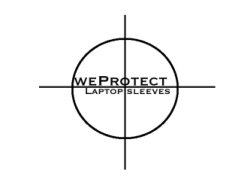
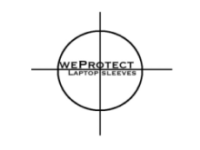
picture size changes + header style change

diff --git a/index.php b/index.php
@@ -18,8 +18,8 @@
         <style>
         
         @font-face {
-    font-family: "Nougat";
-    src: url(Nougat-ExtraBlack.ttf);
+    font-family: "Serifa"; font-weight: bold;
+    src: url("Serifa.ttf");
 }
         
         header{
@@ -27,7 +27,7 @@
             padding:0;
             margin: 0;
             
-            background: #fff;
+            background: #9B8F57;
             box-shadow: 0px 3px 5px rgba(0,0,0,0.3);
         }
         
@@ -69,25 +69,27 @@
             text-align: center;
             font-size: 60px;
             padding: 10px 0 20px 0;
-            color: #40BEC4;
-font-family: 'Nougat';
+            color: #fff;
+font-family: "Serifa";
 
             margin: 0;
-            text-shadow: -1px -1px 0px #2D4A80, -2px -2px 0px #2D4A80, 1px 1px 0px #ccc;
-            font-weight: 400;
+            text-shadow: 0px -1px 0px #333, 0px -2px 0px #333, 1px -3px 0px #333, 1px -4px 0px #333, 2px -5px 0px #333,
+                         2px -6px 0px #333, 3px -7px 0px #333, 3px -8px 0px #333, 4px -9px 0px #333, 4px -10px 0px #333;
+            font-weight: bold;
             }
         
             body{
                 background: #ddd url('img/bg.png');
                 margin: 0;
                 padding: 0;
+                font-size: 14px;
             }
             
             .container{
                 overflow-y: auto;
                 margin: 0 auto;
                 padding: 10px;
-                margin-top: 75px;
+                margin-top: 20px;
             }
             
             li{
@@ -96,8 +98,8 @@ font-family: 'Nougat';
                padding: 15px;
                border: 1px solid #ccc;
                margin: 5px;
-               width: 250px;
-               height: 250px;
+               width: 200px;
+               height: 200px;
                background: #fff;
                
                
@@ -112,8 +114,8 @@ font-family: 'Nougat';
             }
             
             .image-aligner{
-                width: 250px;
-                height: 250px;
+                width: 200px;
+                height: 200px;
                 display:table-cell;
                 vertical-align:middle;
                 background: #fff;
@@ -122,9 +124,9 @@ font-family: 'Nougat';
             
             .text-aligner{
                 position: relative;
-                top: -265px;
-                width: 250px;
-                height: 250px;
+                top: -215px;
+                width: 200px;
+                height: 200px;
                 background: #000;
                 visibility: hidden;
             }
@@ -142,8 +144,8 @@ font-family: 'Nougat';
                border-radius: 3px;
                
                color: #fff;
-               height: 280px;
-               width: 280px;
+               height: 230px;
+               width: 230px;
                
             }
             
@@ -153,14 +155,14 @@ font-family: 'Nougat';
             }
                 .text-align{
                     #position: absolute; #top: 50%;display: table-cell; vertical-align: middle;
-                    height: 280px;
-                    width: 280px;
+                    height: 230px;
+                    width: 230px;
                 }
                 
                 p.sbp-info{
                     #position: relative; #top: -50%;
                     text-align: center;
-                    width: 260px;
+                    width: 210px;
                     padding: 10px;
                 }
                 
@@ -183,10 +185,9 @@ font-family: 'Nougat';
                 }
                 
                 .partners{
-                    margin-left: auto; margin-right: auto;
-                    margin-bottom: 20px;
-                    margin-top: -30px;
-                    width: 200px;
+                    position: absolute;
+                    top: 10px;
+                    right: 10px;
                 }
                 
                 .partners img{
@@ -200,9 +201,9 @@ font-family: 'Nougat';
         <![endif]-->
         
         <header>
-            <h1>FI² Small Business Projects</h1>
+            <h1>3 ABA FI² SBP</h1>
             <div class="partners">
-                <a href="http://www.fi2.be" target="_blank" style="background: none;"><img src="img/fi2.png" style="float: left;"/></a>
+
                 <a href="http://vlajo.org/" target="_blank" style="background: none;"><img src="img/sbp.png" /></a>
             </div>
         </header>
@@ -428,7 +429,7 @@ Dit deden ze in het kader van het vak Small Business Project, een initiatief van
                     <a target="_blank" href="http://tbi-group.be" >
                         <div class="caption">
                             <div class="text-align">
-                                <p class="sbp-info">Tool Brush Industries is een bedrijf gespecialiseerd in het ontwerpen van handige reinigingsproducten voor werkgereedschap. Met onze <b>MultiBrush</b> trachten wij de consument een manier te bieden om zijn kabel, tuinslang e.d. op te rollen zonder dat deze of de handen van de gebruikers vuil worden.
+                                <p class="sbp-info">ToolBrush Industries is gespecialiseerd in het ontwerpen van reinigingsproducten voor werkgereedschap. Met onze <b>MultiBrush</b> trachten wij de consument een manier te bieden om zijn kabel, tuinslang e.d. op te rollen zonder dat deze of de handen van de gebruikers vuil worden.
 </p>
                             </div>
      
@@ -465,10 +466,10 @@ Dit deden ze in het kader van het vak Small Business Project, een initiatief van
             $(window).load(function(){
                     var totalwidth=$(window).width();
                     
-                    var li_amount= Math.floor(totalwidth/293);
-                    $(".container").css("width",(((li_amount)*293+ "px")));
+                    var li_amount= Math.floor(totalwidth/243);
+                    $(".container").css("width",(((li_amount)*243+ "px")));
                     
-                    var bodypadding = Math.floor((totalwidth - li_amount*293) / 2);
+                    var bodypadding = Math.floor((totalwidth - li_amount*243) / 2);
                     
                     $(".container").css("margin-left",bodypadding + "px");
             
@@ -476,10 +477,10 @@ Dit deden ze in het kader van het vak Small Business Project, een initiatief van
                 $(window).resize(function(){
                     var totalwidth=$(window).width();
                     
-                    var li_amount= Math.floor(totalwidth/293);
-                    $(".container").css("width",(((li_amount)*293+ "px")));
+                    var li_amount= Math.floor(totalwidth/243);
+                    $(".container").css("width",(((li_amount)*243+ "px")));
                     
-                    var bodypadding = Math.floor((totalwidth - li_amount*293 - 20) / 2);
+                    var bodypadding = Math.floor((totalwidth - li_amount*243 - 20) / 2);
                     
                     $(".container").css("margin-left",bodypadding + "px");
                     
@@ -493,15 +494,15 @@ Dit deden ze in het kader van het vak Small Business Project, een initiatief van
             var image= $(this).find('.image-aligner'),
                 caption = $(this).find('.caption');
             
-            caption.width("280px");
-            caption.height("280px");
+            caption.width("230px");
+            caption.height("230px");
             caption.fadeIn();
         }).mouseleave(function(){
              var image= $(this).find('.image-aligner'),
                 caption = $(this).find('.caption');
             
-            caption.width("280px");
-            caption.height("280px");
+            caption.width("230px");
+            caption.height("230px");
             caption.fadeOut();
         });
         </script>
